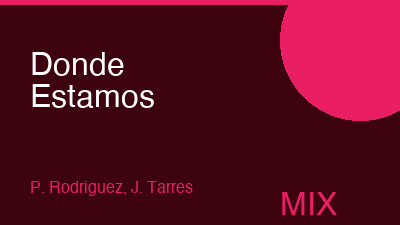
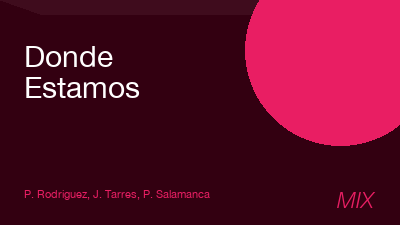
Mix TV: corrige portadas para que coincidan con nombres y conductores
- Estamos Todos Locos: cover ahora dice G. Trezeguet (antes Dario Lopilato)
- La Fabrica del Podcast: cover con C. Zuchovicki, E. Wolf (antes Roman Guajardo)
- Donde Estamos: cover incluye P. Salamanca como tercer conductor
- Puede Funcionar: nuevo cover propio (antes usaba mix-spoiler.png que decia "El Spoiler de la TV - Pia Shaw")
- Camara en Mano: nuevo cover propio (antes usaba mix-losbro.png que decia "Los Bro - Martin Ku, N. Grosman")

diff --git a/index.html b/index.html
@@ -875,7 +875,7 @@ body { font-family: 'Inter', system-ui, sans-serif; background: var(--bg); color
     </div>
     <div class="prog-card reveal reveal-delay-1">
       <div style="height:3px;background:linear-gradient(90deg,#7c4dff,#b388ff)"></div>
-      <img class="prog-img" src="img/programs/mix-spoiler.png" alt="Puede Funcionar">
+      <img class="prog-img" src="img/programs/mix-puedefuncionar.png" alt="Puede Funcionar">
       <div class="prog-body">
         <div class="prog-channel" style="color:#b388ff">Mix TV | Martes 20:00hs</div>
         <div class="prog-name">Puede Funcionar</div>
@@ -886,7 +886,7 @@ body { font-family: 'Inter', system-ui, sans-serif; background: var(--bg); color
     </div>
     <div class="prog-card reveal reveal-delay-2">
       <div style="height:3px;background:linear-gradient(90deg,#26a69a,#4db6ac)"></div>
-      <img class="prog-img" src="img/programs/mix-losbro.png" alt="Camara en Mano">
+      <img class="prog-img" src="img/programs/mix-camara.png" alt="Camara en Mano">
       <div class="prog-body">
         <div class="prog-channel" style="color:#4db6ac">Mix TV | Lun 17hs y Jue 23hs</div>
         <div class="prog-name">Camara en Mano</div>
